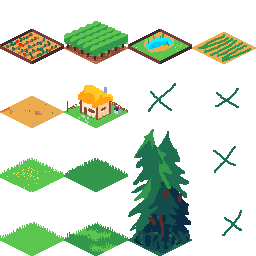
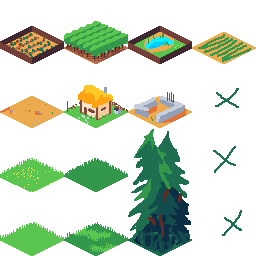
brogress

diff --git a/Assets/Scripts/CommandInput.cs b/Assets/Scripts/CommandInput.cs
@@ -1,6 +1,7 @@
 using UnityEngine;
 using UnityEngine.UI;
 using System.Collections;
+using System.Collections.Generic;
 
 public class CommandInput : MonoBehaviour {
 	[SerializeField] Text scrollback;
@@ -8,8 +9,14 @@ public class CommandInput : MonoBehaviour {
 	[SerializeField] TileTracker tileTracker;
 	[SerializeField] TilemapVisuals tilemapVisuals;
 
+	public List<BuildCommand> buildCommands;
+	Dictionary<string, ScriptableTile> buildTiles;
+
 	public ScriptableTile clearedTile;
 	public ScriptableTile gardenTile;
+
+	int actions = 0;
+	const int actionsPerTick = 3;
 
 	public static CommandInput c;
 
@@ -21,6 +28,12 @@ public class CommandInput : MonoBehaviour {
 	}
 
 	void Start() {
+		buildTiles = new Dictionary<string, ScriptableTile>();
+		foreach (BuildCommand bc in buildCommands) {
+			buildTiles[bc.name] = bc.tile;
+		}
+		buildCommands.Clear();
+
 		ClearInput();
 		SelectInput();
 	}
@@ -87,19 +100,48 @@ public class CommandInput : MonoBehaviour {
 		}
 
 		else if (args[0] == "cut") {
-			tileTracker.ReplaceTile(tileTracker.StrToPos(args[1]), clearedTile);
+			if (tileTracker.GetTile(tileTracker.StrToPos(args[1])).GetTile().name == clearedTile.name) {
+				Log(args[1].ToUpper() + " already cleared");
+			} else {
+				actions++;
+				tileTracker.ReplaceTile(tileTracker.StrToPos(args[1]), clearedTile);
+			}
 		}
 
 		else if (args[0] == "fix") {
+			actions++;
 			tileTracker.RepairTile(tileTracker.StrToPos(args[1]));
 		}
 
-		else if (args[0] == "till") {
-			tileTracker.ReplaceTile(tileTracker.StrToPos(args[1]), gardenTile);
+		else if (args[0] == "build") {
+			Build(args[1], tileTracker.StrToPos(args[2]));
+		}
+
+		if (actions >= actionsPerTick) {
+			Log("Sunset");
+			Tick();
+			Log("Sunrise\n"+ actionsPerTick + " actions remaining today");
+		} else {
+			int remaining = actionsPerTick - actions;
+			if (remaining > 1) {
+				Log(remaining + " actions remaining today");
+			} else {
+				Log(remaining + " action remaining today");
+			}
 		}
 	}
 
-	void Tick(int time) {
+	void Build(string name, Vector3Int pos) {
+		if (!buildTiles.ContainsKey(name)) {
+			Log("Unknown build command "+name);
+			return;
+		}
+		actions++;
+		tileTracker.ReplaceTile(pos, buildTiles[name]);
+	}
+
+	void Tick(int time=1) {
+		actions = 0;
 		for (int t=0; t<time; t++) {
 			GameTile[] tiles = tileTracker.GetTiles<GameTile>();
 			for (int i=0; i<tiles.Length; i++) {
@@ -116,4 +158,10 @@ public class CommandInput : MonoBehaviour {
 		time--;
 		if (time > 0) StartCoroutine(SlowTick(time));
 	}
+}
+
+[System.Serializable]
+public class BuildCommand {
+	public string name;
+	public ScriptableTile tile;
 }

diff --git a/Assets/Scripts/Tiles/TileTracker.cs b/Assets/Scripts/Tiles/TileTracker.cs
@@ -69,7 +69,7 @@ public class TileTracker : MonoBehaviour {
 
 	public void ReplaceTile(Vector3Int position, ScriptableTile newTile) {
 		// check if it's valid
-		if (!ValidPlacement(tilemap.GetTile(origin + position) as ScriptableTile, newTile)) {
+		if (!ValidPlacement(tilemap.GetTile(origin + position) as ScriptableTile, newTile, position)) {
 			return;
 		}
 
@@ -89,13 +89,12 @@ public class TileTracker : MonoBehaviour {
 		return tileBackend;
 	}
 
-	bool ValidPlacement(ScriptableTile oldTile, ScriptableTile newTile) {
-		TileRequiredBase required = newTile.tileObject.GetComponent<TileRequiredBase>();
-		if (!required) return true;
-		else if (!required.validBases.Contains(oldTile)) {
-			List<String> validBases = required.validBases.Select(x => x.name).ToList();
-			CommandInput.Log("Invalid build base for "+newTile.tileObject.name+". Valid bases: "+ PrettyList(validBases));
-			return false;
+	bool ValidPlacement(ScriptableTile oldTile, ScriptableTile newTile, Vector3Int pos) {
+		TileCriterion[] criteria = newTile.tileObject.GetComponents<TileCriterion>();
+		for (int i=0; i<criteria.Length; i++) {
+			if (!criteria[i].Valid(this, pos)) {
+				return false;
+			}
 		}
 		return true;
 	}
@@ -153,14 +152,5 @@ public class TileTracker : MonoBehaviour {
 		}
 
 		placements.Clear();
-	}
-
-	public string PrettyList(List<String> l) {
-		string s = "[ ";
-		foreach (String x in l) {
-			s += x + " ";
-		}
-		s += "]";
-		return s;
 	}
 }

diff --git a/Assets/Scripts/Tiles/Tile Behaviours/TileDecay.cs b/Assets/Scripts/Tiles/Tile Behaviours/TileDecay.cs
@@ -4,11 +4,15 @@ using UnityEngine;
 public class TileDecay : TileBehaviour, IStat {
 	[SerializeField]
 	int decayThreshold = 7;
-	public ScriptableTile decayTo;
+
+	[SerializeField]
+	ScriptableTile decayTo;
 
 	[SerializeField]
 	int baseMultiplier = 1;
+
 	[SerializeField]
+	[Tooltip("Amount of days before decay is compounded.")]
 	protected int gracePeriod = 3;
 
 	TileAge tileAge;
@@ -19,6 +23,8 @@ public class TileDecay : TileBehaviour, IStat {
 	}
 
 	virtual public void Clockwork() {
+		// if it was already removed
+		if (gameTile == null) return;
 		// call the inherited version
 		if (GetDecay() > decayThreshold) {
 			gameTile.QueueForReplace(decayTo);
@@ -26,7 +32,6 @@ public class TileDecay : TileBehaviour, IStat {
 	}
 
 	virtual public int GetDecay() {
-		Debug.Log("root getting decay");
 		int decay = tileAge.GetAge()-gracePeriod;
 		if (decay > 0) decay *= baseMultiplier;
 		return decay;

diff --git a/Assets/Scripts/Tiles/GameTile.cs b/Assets/Scripts/Tiles/GameTile.cs
@@ -8,6 +8,8 @@ public class GameTile : MonoBehaviour, IStat {
 	Vector3Int position;
 	ScriptableTile tile;
 
+	[TextArea] public string description;
+
 	// neighbors will have to be updated every time the tilemap is updated
 	// how do we do this without a recursive loop
 	// if tile.neighbors.doesn't contain this then call updateNeighbors
@@ -35,6 +37,8 @@ public class GameTile : MonoBehaviour, IStat {
 			GetComponent<TileAge>().Clockwork();
 		}
 
+
+
 		if (GetComponent<TileDecay>() != null) {
 			TileDecay[] d = GetComponents<TileDecay>();
 			for (int i=0; i<d.Length; i++) {
@@ -58,6 +62,6 @@ public class GameTile : MonoBehaviour, IStat {
 	}
 
 	public string Stat() {
-		return $"{name} at {tileTracker.PosToStr(this.position)}";
+		return $"{name} at {tileTracker.PosToStr(this.position)}\n{description}";
 	}
 }

diff --git a/Assets/Scripts/Tiles/Tile Behaviours/TileRequiredBase.cs b/Assets/Scripts/Tiles/Tile Behaviours/TileRequiredBase.cs
@@ -1,6 +1,26 @@
 using UnityEngine;
+using System.Linq;
 using System.Collections.Generic;
 
-public class TileRequiredBase : TileBehaviour {
+public class TileRequiredBase : TileCriterion {
 	public List<ScriptableTile> validBases;
+
+	public override bool Valid(TileTracker tracker, Vector3Int pos) {
+		ScriptableTile currentBase = tracker.GetTile(pos).GetTile();
+		if (!validBases.Contains(currentBase)) {
+			List<string> validBases = this.validBases.Select(x => x.tileObject.name).ToList();
+			CommandInput.Log("Invalid base for "+gameObject.name+". Build on: "+ PrettyList(validBases));
+			return false;
+		}
+		return true;
+	}
+
+	public string PrettyList(List<string> l) {
+		string s = "[ ";
+		foreach (string x in l) {
+			s += x + " ";
+		}
+		s += "]";
+		return s;
+	}
 }

diff --git a/Assets/Scripts/Tiles/TilemapVisuals.cs b/Assets/Scripts/Tiles/TilemapVisuals.cs
@@ -20,7 +20,7 @@ public class TilemapVisuals : MonoBehaviour {
 		CommandInput.Log("initializing legend");
 		origin = tilemap.cellBounds.min;
 		CommandInput.Log("computed origin: "+ origin.ToString());
-		CommandInput.Log("tilemap size: "+tilemap.cellBounds.size);
+		CommandInput.Log("board size: "+tilemap.cellBounds.size);
 
 		for (int i=0; i<tilemap.cellBounds.size.x; i++) {
 			AddLetterLegend(i);

diff --git a/Assets/Scripts/Tiles/Tile Behaviours/TileAction.cs b/Assets/Scripts/Tiles/Tile Behaviours/TileAction.cs
@@ -1,0 +1,6 @@
+using UnityEngine;
+
+public class ClockworkAction : TileBehaviour {
+	// has action and target fields - repair, age, what else...
+	// prerequisites? like the house needs a garden next to it
+}

diff --git a/Assets/Scripts/Tiles/Tile Behaviours/TileCriterion.cs b/Assets/Scripts/Tiles/Tile Behaviours/TileCriterion.cs
@@ -1,0 +1,5 @@
+using UnityEngine;
+
+public abstract class TileCriterion : MonoBehaviour {
+	abstract public bool Valid(TileTracker tracker, Vector3Int pos);
+}

diff --git a/Assets/Scripts/Tiles/Tile Behaviours/TileAge.cs b/Assets/Scripts/Tiles/Tile Behaviours/TileAge.cs
@@ -16,6 +16,6 @@ public class TileAge : TileBehaviour, IStat {
 	}
 
 	public string Stat() {
-		return "Age: "+GetAge();
+		return "Age "+GetAge();
 	}
 }
